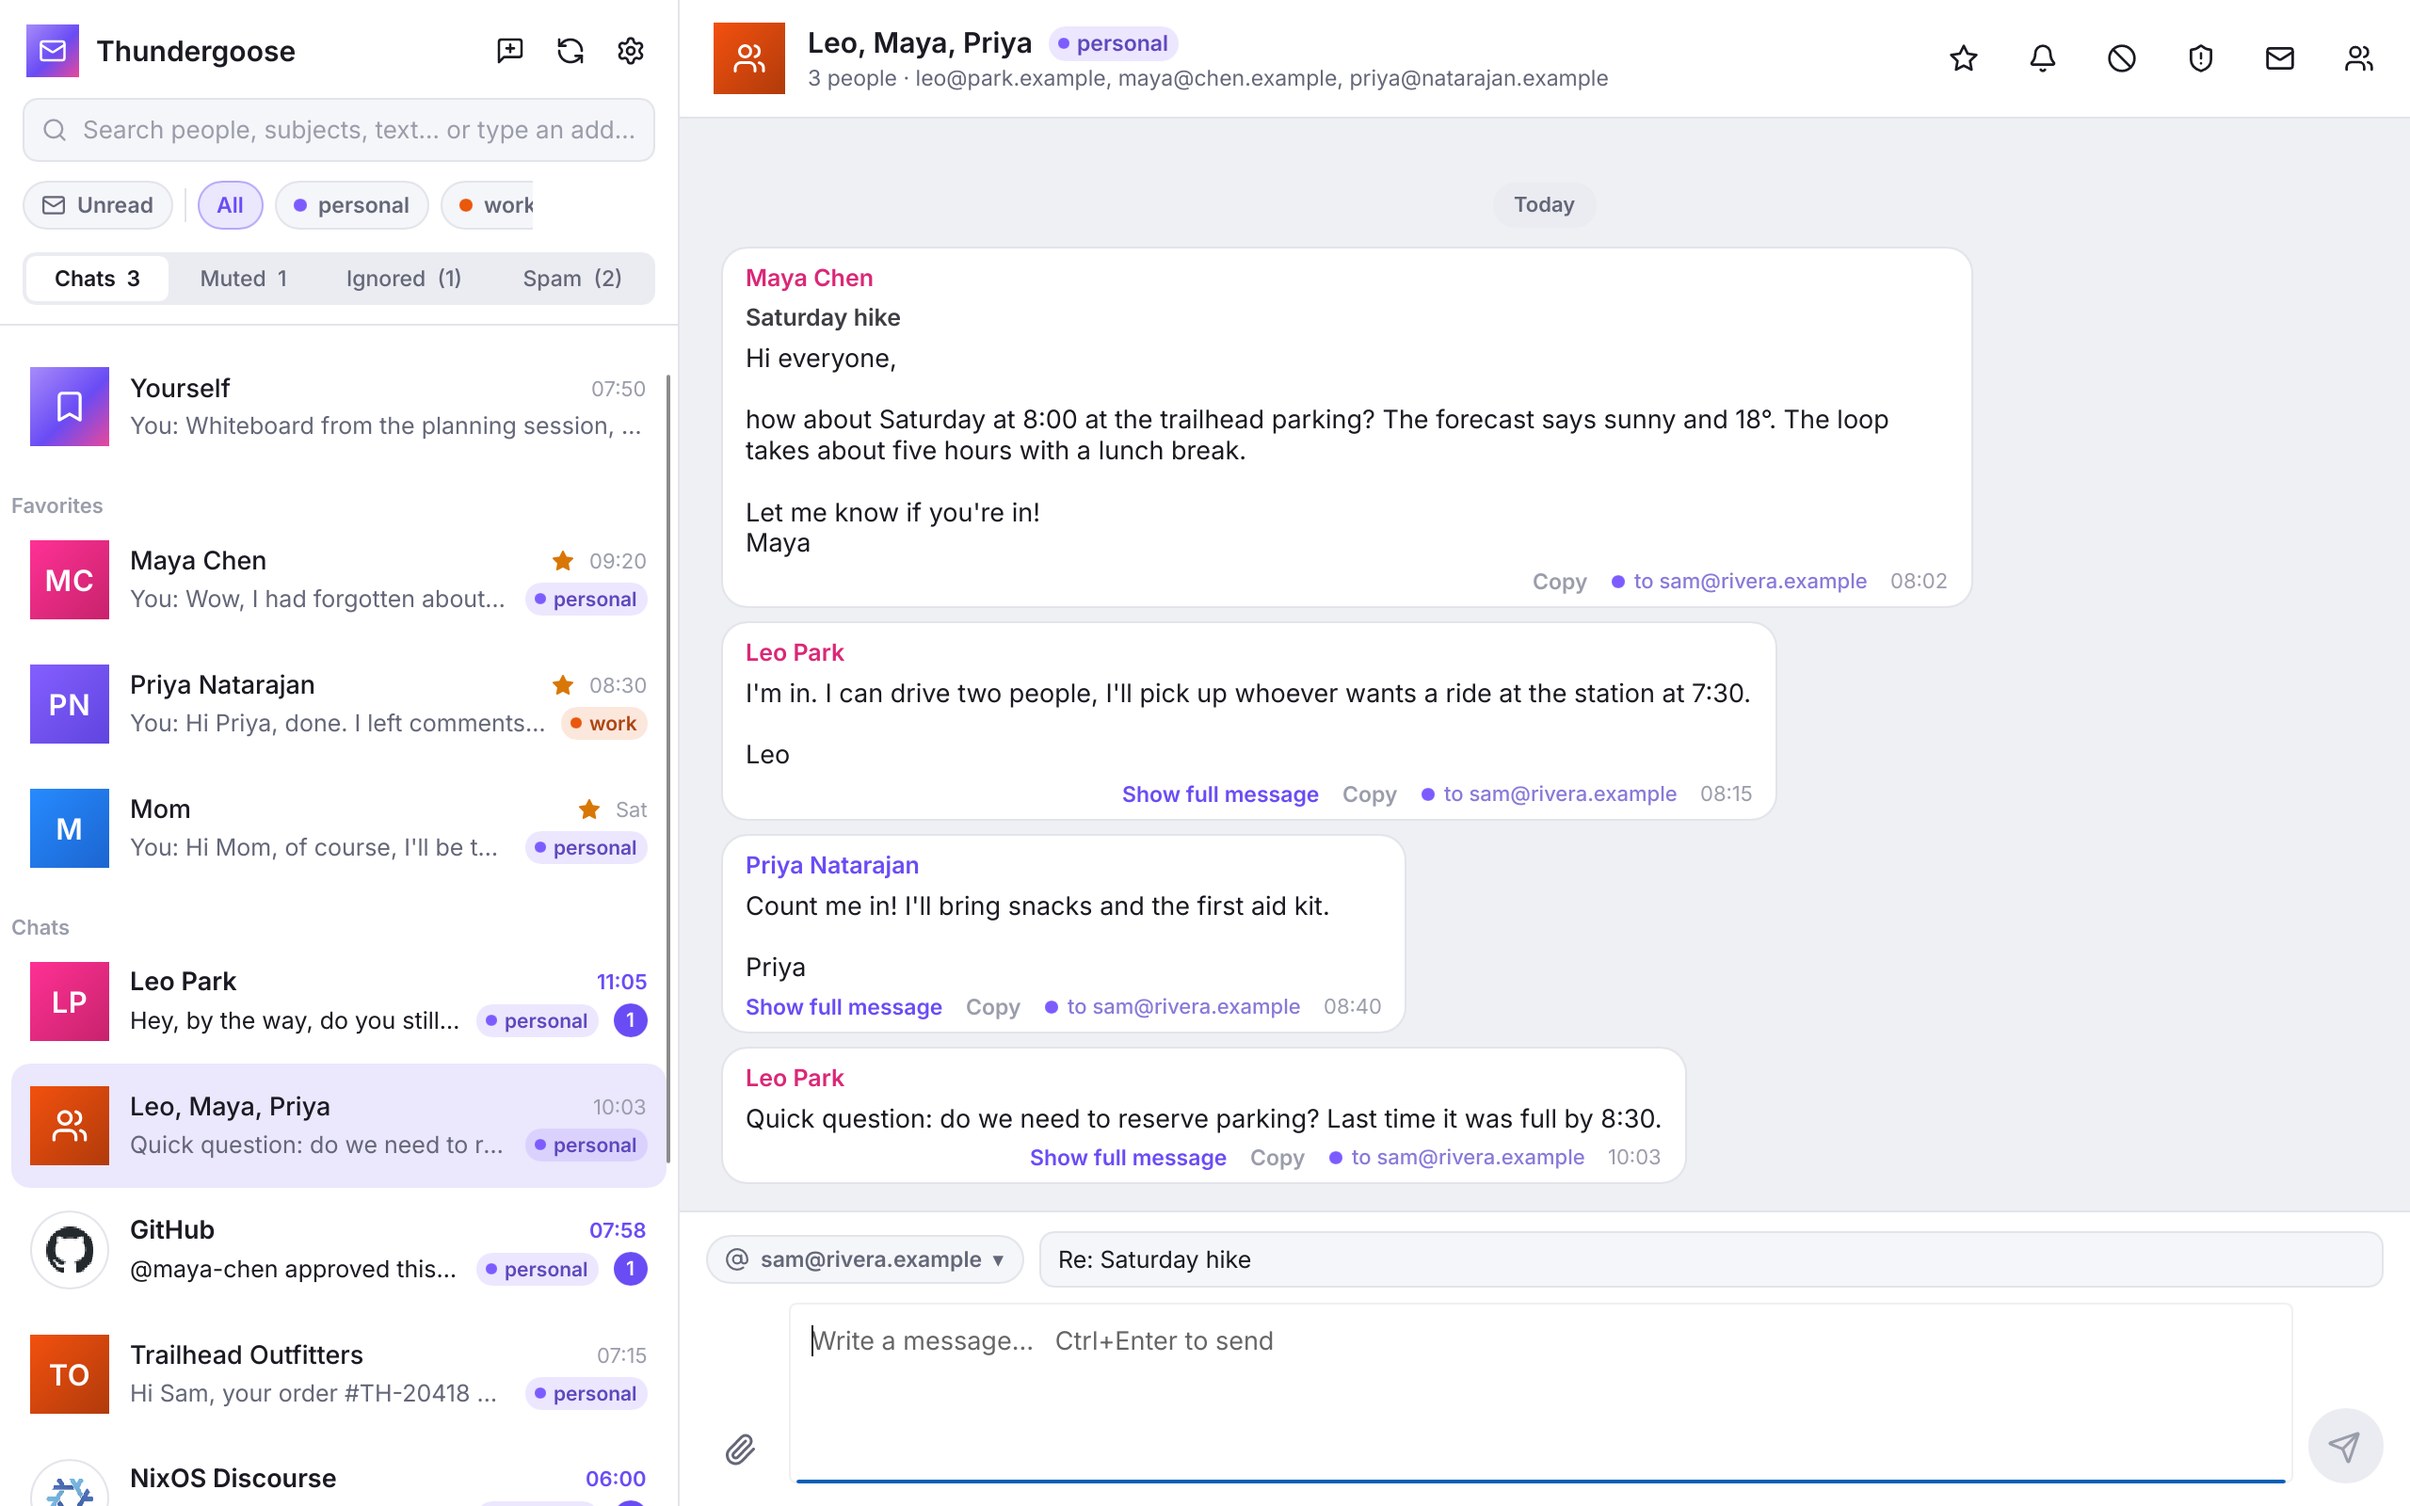
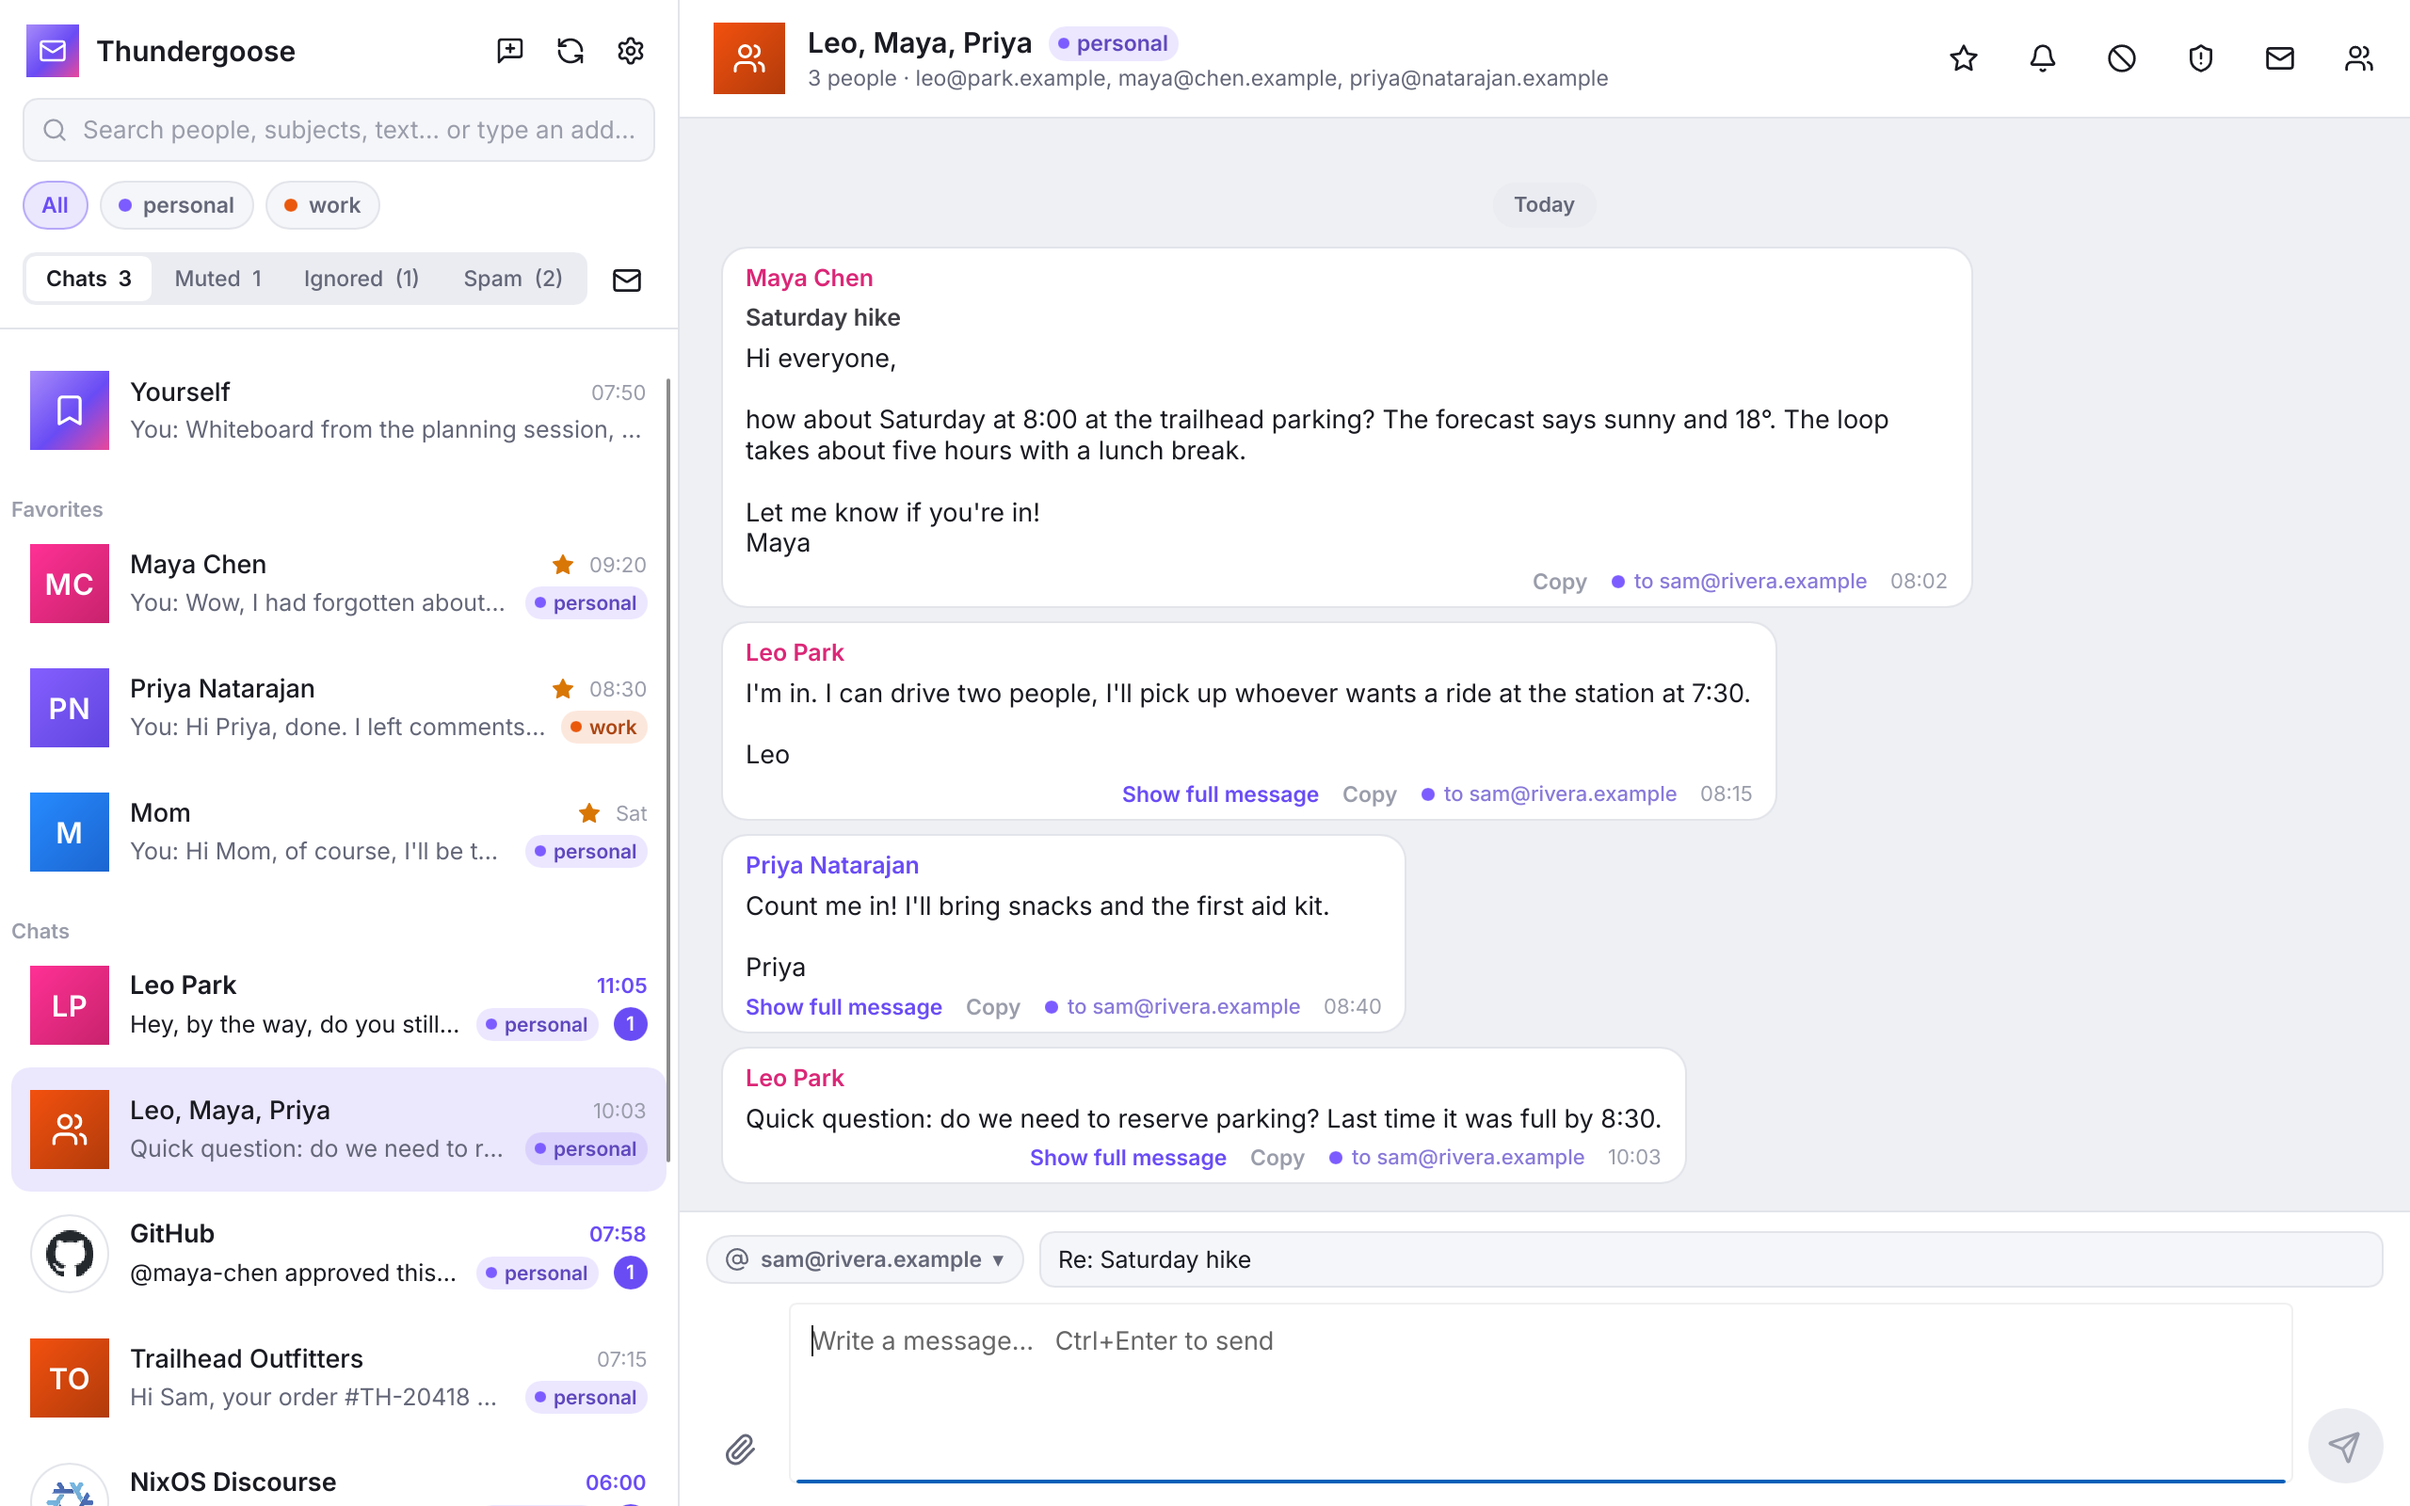
Settings no longer reset every second; account chips no longer cut off; no tags with one address
The accounts model is updated in place, so the color picker stays open and the tag field keeps
focus. The chip row's Flickable is sized by a wrapping Rectangle. With a single own address the
account chips, tags and to/from lines are hidden, and the Unread toggle moved next to the tabs.

Fixes #1

diff --git a/src/app.rs b/src/app.rs
@@ -400,7 +400,15 @@ impl Core {
         }
     }
 
+    /// Tags say which of your addresses something is about; with only one, they say nothing.
+    fn tags_shown(&self) -> bool {
+        self.own_addresses().len() > 1
+    }
+
     fn account_tags(&self, addrs: &[String]) -> Vec<AccountTag> {
+        if !self.tags_shown() {
+            return Vec::new();
+        }
         addrs.iter().map(|a| AccountTag { label: self.addr_label(a).into(), color: self.addr_color(a), addr: a.as_str().into() }).collect()
     }
 
@@ -572,7 +580,20 @@ impl Core {
             .collect();
         let ui = self.ui();
         let app = ui.global::<App>();
-        app.set_accounts(ModelRc::new(VecModel::from(items)));
+        // Rows are updated in place: replacing the model would rebuild the account rows in
+        // Settings every second, closing popups and taking the focus from their fields.
+        let model = app.get_accounts();
+        match model.as_any().downcast_ref::<VecModel<AccountItem>>() {
+            Some(m) if m.row_count() == items.len() => {
+                for (i, it) in items.into_iter().enumerate() {
+                    if m.row_data(i).as_ref() != Some(&it) {
+                        m.set_row_data(i, it);
+                    }
+                }
+            }
+            Some(m) => m.set_vec(items),
+            None => app.set_accounts(ModelRc::new(VecModel::from(items))),
+        }
         app.set_syncing(busy);
         app.set_sync_text(text.into());
     }
@@ -781,6 +802,8 @@ impl Core {
                 // Between own addresses, say which way it went.
                 let to: Vec<&str> = m.recipients.iter().map(|p| p.addr.as_str()).filter(|a| me.contains(&a.to_lowercase())).collect();
                 if to.is_empty() { String::new() } else { format!("{} → {}", m.from.addr, to.join(", ")) }
+            } else if !self.tags_shown() {
+                String::new()
             } else if m.outgoing {
                 format!("from {}", m.me_addr)
             } else {

diff --git a/src/shots.rs b/src/shots.rs
@@ -106,6 +106,24 @@ pub fn take(out: &Path) -> Result<(), PlatformError> {
     settle();
     save(&window, &out.join("settings-light.png"));
 
+    // The tag color picker stays open while sync status keeps updating (not used in the README).
+    if std::env::var_os("THUNDERGOOSE_SHOT_PICKER").is_some() {
+        let click = |x: f32, y: f32| {
+            use slint::platform::PointerEventButton;
+            let position = LogicalPosition::new(x, y);
+            window.dispatch_event(WindowEvent::PointerMoved { position });
+            window.dispatch_event(WindowEvent::PointerPressed { position, button: PointerEventButton::Left });
+            window.dispatch_event(WindowEvent::PointerReleased { position, button: PointerEventButton::Left });
+        };
+        click(384.0, 184.0);
+        let start = Instant::now();
+        while start.elapsed() < Duration::from_secs(4) {
+            slint::platform::update_timers_and_animations();
+            std::thread::sleep(Duration::from_millis(15));
+        }
+        save(&window, &out.join("picker.png"));
+    }
+
     // First start on a computer with Thunderbird (not used in the README).
     if std::env::var_os("THUNDERGOOSE_SHOT_WELCOME").is_some() {
         crate::app::with_core(|c| c.forget_accounts_for_shot());
